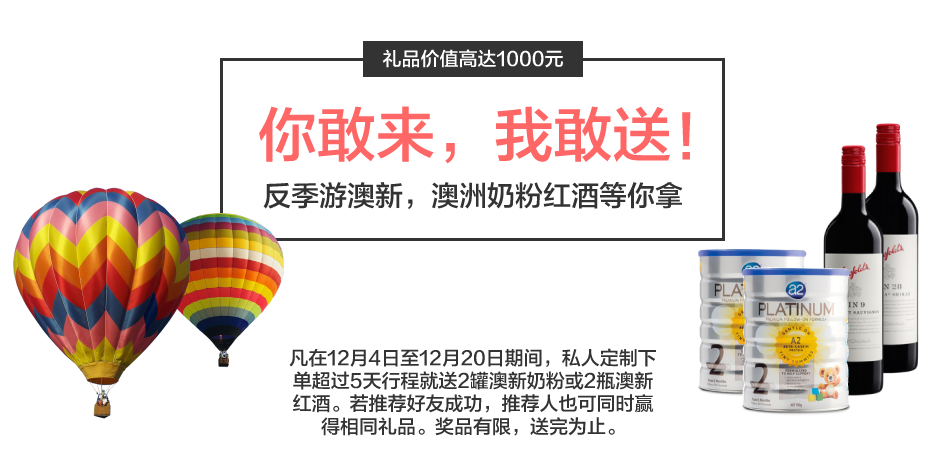
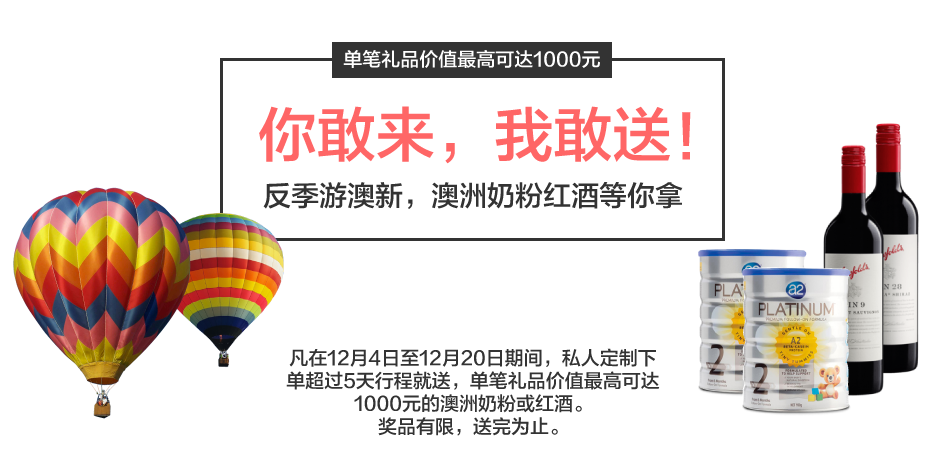
#413 campaign changes

Changed region(s): [[0.3079, 0.7778, 0.7081, 0.9274], [0.3386, 0.0897, 0.6773, 0.1795]]

diff --git a/app/templates/app/campaign.html b/app/templates/app/campaign.html
@@ -29,7 +29,7 @@
   <img class="ribbon" src="{% static 'app/img/ribbon.png' %}">
   <h1>领奖细则</h1>
   <p style="max-width: 960px; margin: 10px auto;">
-    凡在12月4日至12月20日期间，私人定制下单超过5天行程就送2罐澳新奶粉或2瓶澳新红酒。若推荐好友下单成功，推荐人也会同时赢得礼品 （推荐人和被推荐人须是tripalocal.com.cn 的注册用户，每一单限一名推荐人）。礼品为a2奶粉两罐（可选1段或2段）或奔富BIN系列红酒两瓶。请在下单时向客服人员说明您选择的礼品为奶粉还是红酒。奖品将在1月8日以后送出，活动期间下单路线一律不得退改。礼品全部为澳洲直邮，绝无假货，数量有限，送完即止！手快有，手慢无，不要犹豫，立刻找Tripalocal要要要！本活动最终解释权归Tripalocal本土客所有。
+凡在12月4日至12月20日期间，私人定制下单超过5天行程就送2罐澳新奶粉或2瓶澳新红酒。若推荐好友下单成功，推荐人也会同时赢得礼品 （每单价值可达1000元，推荐人和被推荐人须是tripalocal.com.cn 的注册用户，每一单限一名推荐人）。礼品为a2奶粉两罐（可选1段或2段）或奔富BIN系列红酒两瓶。请在下单时向客服人员说明您选择的礼品为奶粉还是红酒。奖品将在1月8日以后送出，活动期间下单路线一律不得退改。礼品全部为澳洲直邮，绝无假货，数量有限，送完即止！手快有，手慢无，不要犹豫，立刻找Tripalocal要要要！本活动最终解释权归Tripalocal本土客所有。
   </p>
 </div>
 <div class="container">
